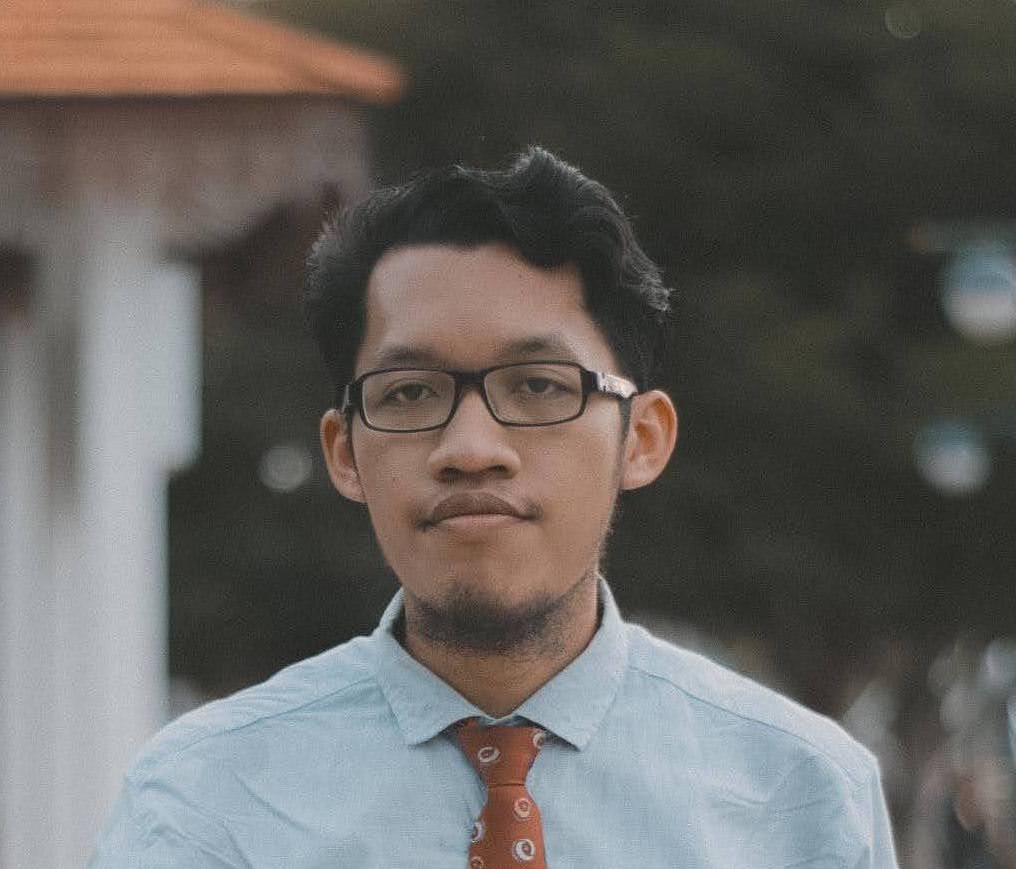
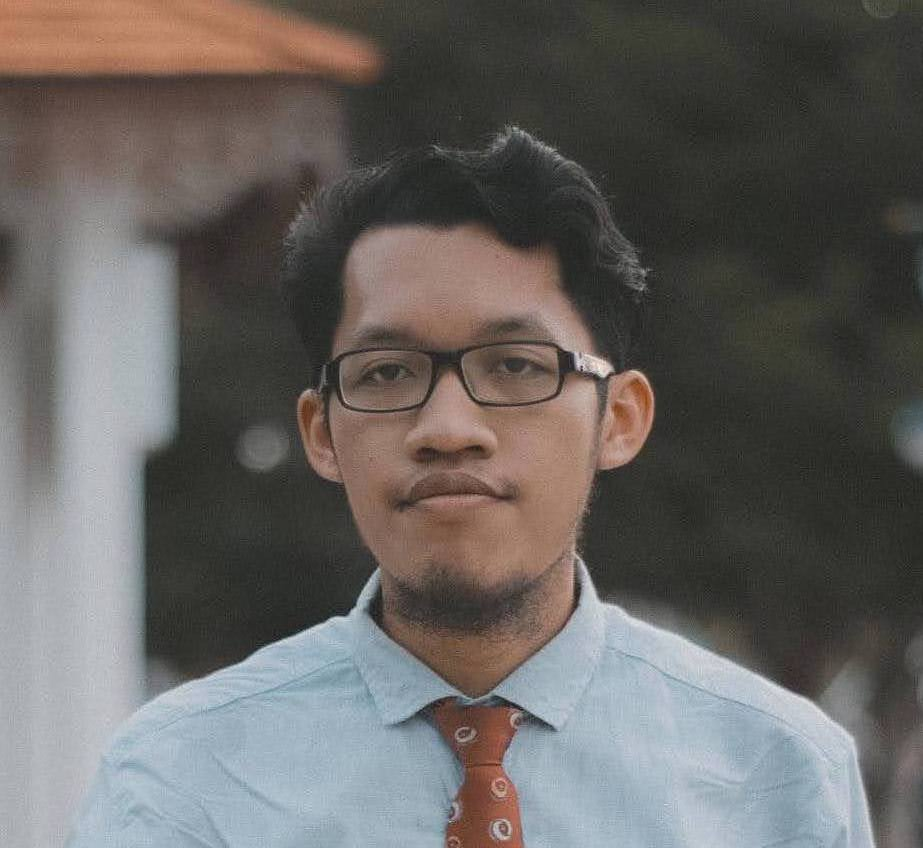
Cropped profile pic to square

diff --git a/index.html b/index.html
@@ -57,10 +57,10 @@
             <div id="mobile-profile-pic " class="center-align hide-on-med-and-up">
               <img class="responsive-img circle z-depth-3" src="assets/mobile-profile-pic.jpg" alt="">
             </div>
-            <div class="container col s12 m6 l6">
+            <div id="highlight-description" class="col s12 m6 l6">
               <br /><br />
               <div class="banner_title">
-                <h1 class="banner-greet center black-text text-lighten-2 text-align-left ">
+                <h1 class="banner-greet center black-text text-lighten-2 text-align-left">
                   Hi, I'm Ikhwan
                 </h1>
                 <h3 class="banner-detail center black-text light">
@@ -112,7 +112,7 @@
             <img src="assets/profile_pic.jpg" alt="">
           </div>
           <div class="col s12 m8 l8">
-            <h4 class="flow-text">About Me</h4>
+            <h4>About Me</h4>
             <p>Lorem ipsum dolor sit, amet consectetur adipisicing elit. Enim, dicta corporis dolorum dolore maxime quae vel id officia ad itaque harum expedita, beatae recusandae nobis, fugiat labore ipsam ipsa quas!</p>
           </div>
         </section>

diff --git a/styles/style.css b/styles/style.css
@@ -31,14 +31,19 @@ p {
 }
 
 #mobile-profile-pic {
+  margin-top: 1rem;
   width: 20%;
   margin: 0 auto;
   margin-top: 2rem;
 }
 
-#mobile-profile-pic img {
-  width: 100%;
-  height: 20%;
+#mobile-profile-pic > img {
+  margin-top: 1rem;
+}
+
+img.responsive-img, video.responsive-video {
+  max-width: 30%;
+  height: auto;
 }
 
 .banner_title {
@@ -54,7 +59,7 @@ p {
 }
 
 .banner-summary {
-  margin: 4rem 2rem 2rem 2rem;
+  margin: 3rem 2rem 2rem 2rem;
 }
 
 .banner-summary p {
@@ -89,6 +94,14 @@ p {
   padding: 0;
 }
 
+#about-me div:first-child img{
+  padding: 0;
+}
+
+#about-me div:nth-child(2) h4 {
+  font-size: 1.5rem;
+}
+
 .thumbnail-pic {
   width: 20%;
 }
@@ -120,6 +133,10 @@ p {
 @media only screen and (max-width: 600px) {
   #index-banner .section {
     top: 0;
+  }
+
+  #highlight {
+    height: 100vh;
   }
 }
 
